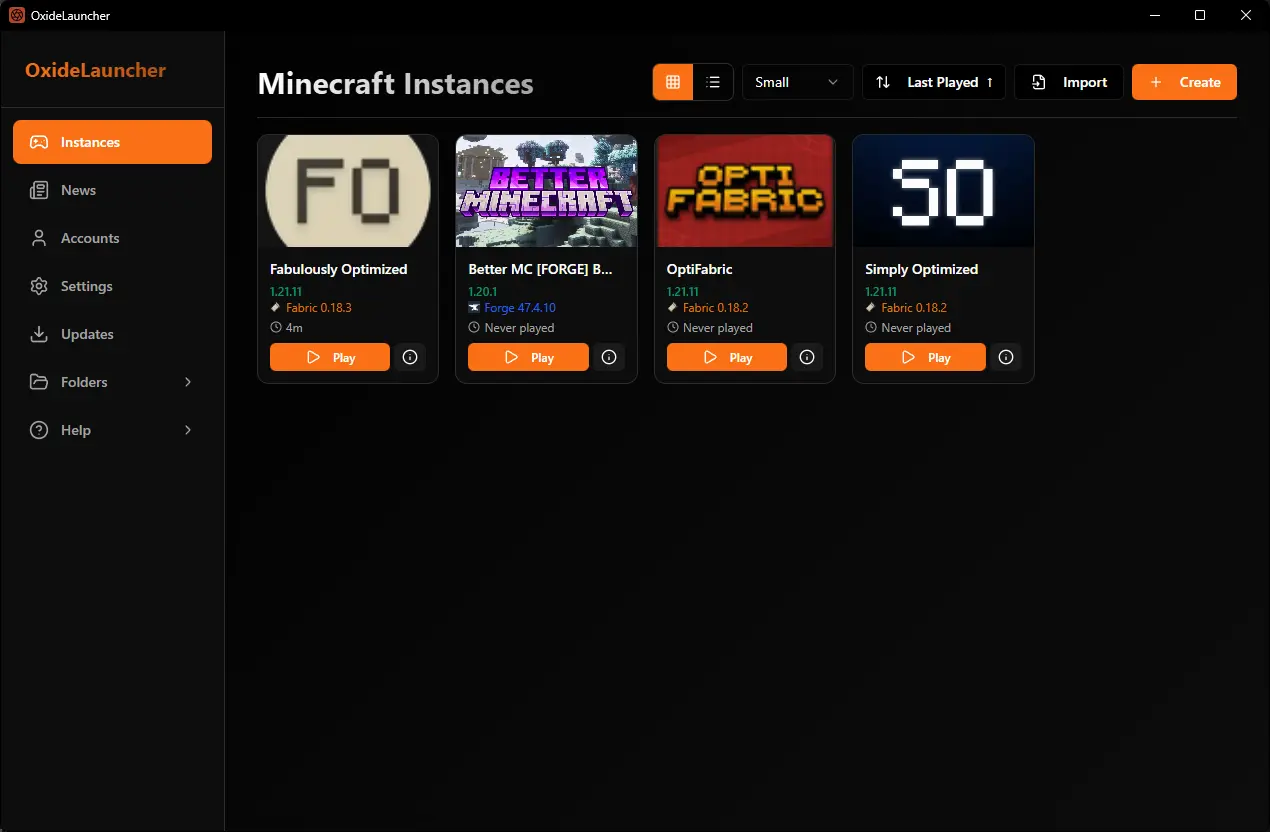
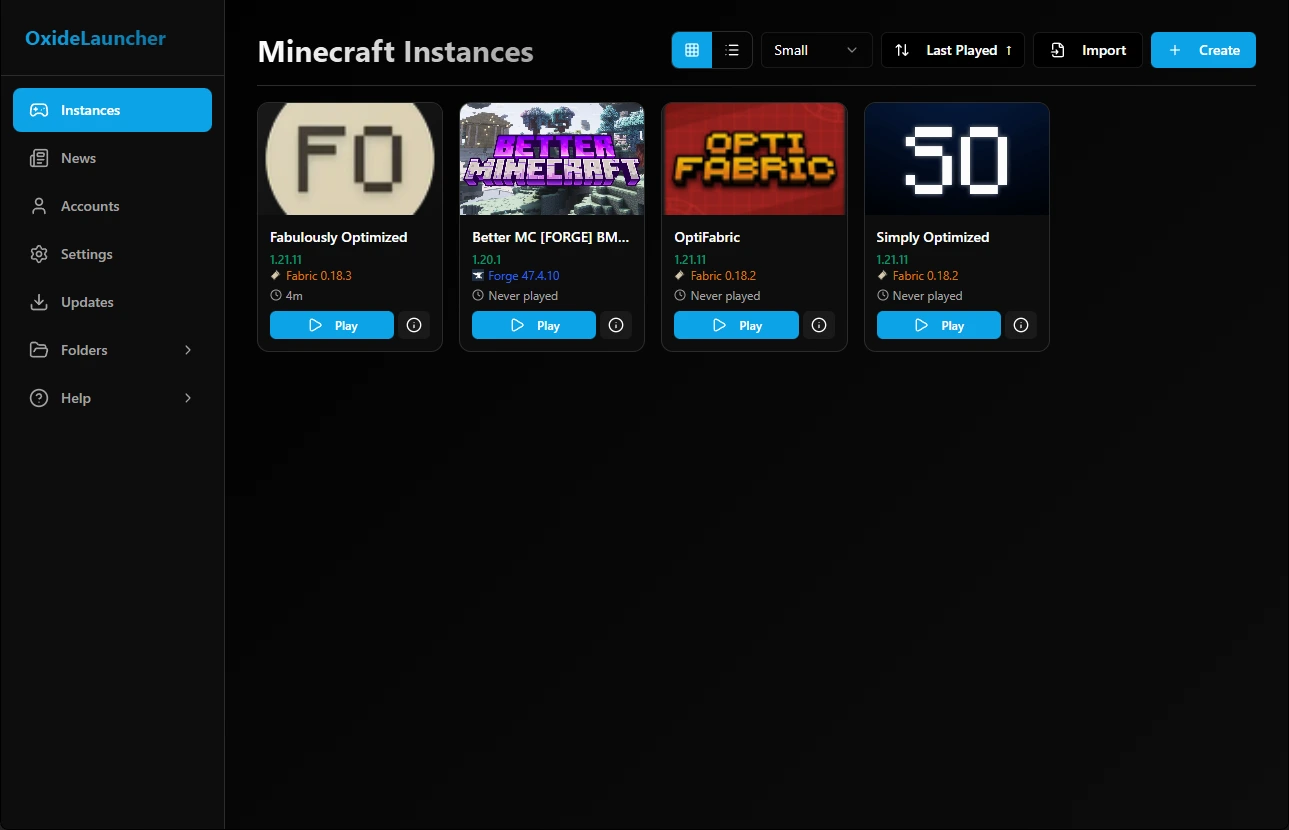
light/dark images

Changed region(s): [[0.0, 0.0, 0.9827, 0.4819], [0.0307, 0.512, 0.0614, 0.5422]]

diff --git a/src/pages/Home.tsx b/src/pages/Home.tsx
@@ -12,6 +12,7 @@ import {
 import { Button } from '@/components/ui/button';
 import { Card, CardContent, CardDescription, CardHeader, CardTitle } from '@/components/ui/card';
 import { GitHubBadge } from '@/components/GitHubBadge';
+import { useThemeImage } from '@/hooks/useThemeImage';
 
 const features = [
   {
@@ -47,6 +48,9 @@ const features = [
 ];
 
 export function Home() {
+  const instanceViewImage = useThemeImage('/assets/InstanceView.webp');
+  const browseModpacksImage = useThemeImage('/assets/BrowseModpacks.webp');
+
   return (
     <div>
       {/* Hero Section */}
@@ -99,7 +103,7 @@ export function Home() {
           <div className="relative mx-auto max-w-5xl">
             <div className="rounded-xl border border-border bg-card p-2 shadow-2xl">
               <img 
-                src="/assets/Instanceview.webp" 
+                src={instanceViewImage} 
                 alt="Oxide Launcher Instance View - Main interface showing Minecraft instances" 
                 className="aspect-video rounded-lg w-full object-cover"
               />
@@ -171,7 +175,7 @@ export function Home() {
             <div className="relative">
               <div className="rounded-xl border border-border bg-card p-2">
                 <img 
-                  src="/assets/browsemodpacks.webp" 
+                  src={browseModpacksImage} 
                   alt="Oxide Launcher Modpack Browser - Browse and download modpacks" 
                   className="rounded-lg w-full object-cover"
                 />

diff --git a/src/hooks/useThemeImage.tsx b/src/hooks/useThemeImage.tsx
@@ -1,0 +1,22 @@
+import { useTheme } from './useTheme';
+
+/**
+ * Custom hook to get theme-aware image paths
+ * Automatically switches between light and dark variants based on current theme
+ * 
+ * @param basePath - The base path to the dark version (e.g., '/assets/BrowseModpacks.webp')
+ * @returns The appropriate image path based on the current theme
+ */
+export function useThemeImage(basePath: string): string {
+  const { theme } = useTheme();
+  
+  // If theme is light, insert 'Light' before the file extension
+  if (theme === 'light') {
+    const lastDotIndex = basePath.lastIndexOf('.');
+    if (lastDotIndex !== -1) {
+      return basePath.slice(0, lastDotIndex) + 'Light' + basePath.slice(lastDotIndex);
+    }
+  }
+  
+  return basePath;
+}
